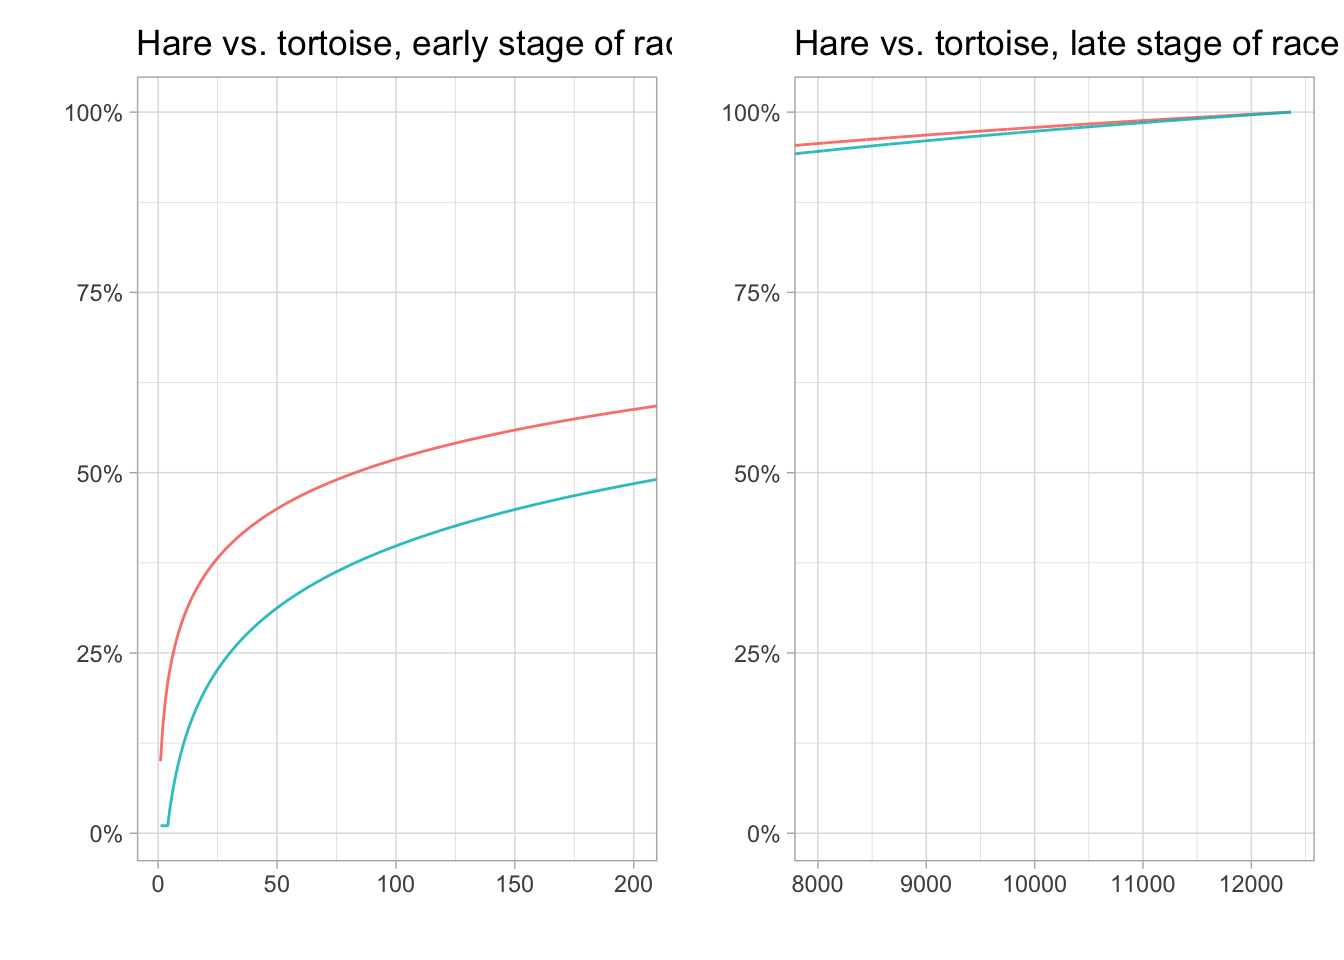
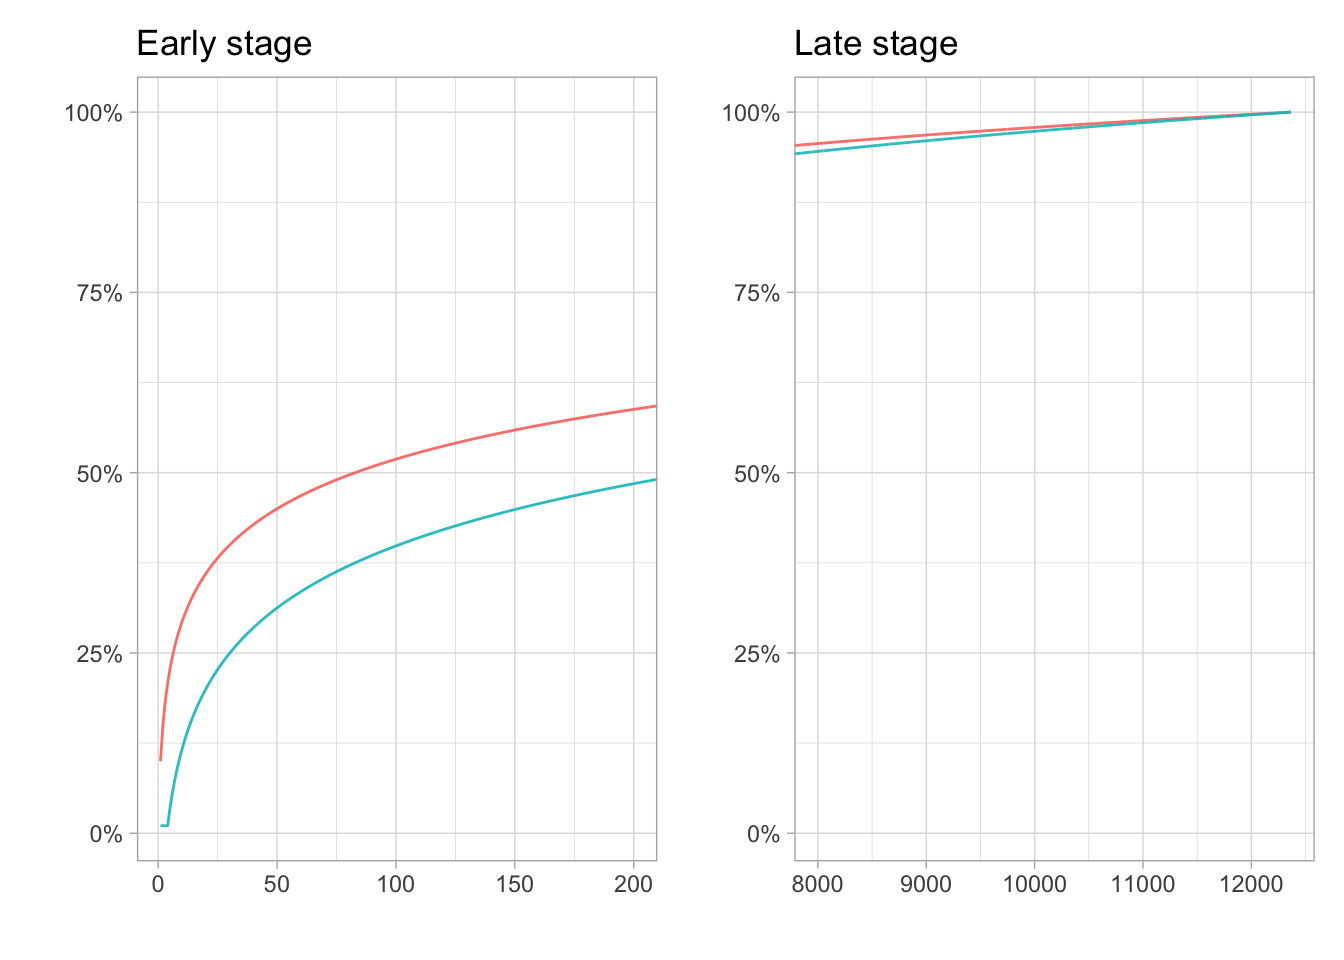
Additional draft of baseball

Changed region(s): [[0.5938, 0.0312, 1.0, 0.0625], [0.0938, 0.0312, 0.5, 0.0625]]

diff --git a/content/post/riddler/2020-07-17-baseball-asterisk.html b/content/post/riddler/2020-07-17-baseball-asterisk.html
@@ -1,0 +1,101 @@
+---
+title: Baseball asterisk
+author: ravic
+date: '2020-07-17'
+slug: baseball-asterisk
+categories: []
+tags:
+  - riddler
+---
+
+
+
+<!--more-->
+<div id="problem" class="section level3">
+<h3>Problem</h3>
+<blockquote>
+<p>From Taylor Firman comes an opportunity to make baseball history:  <br />
+This year, Major League Baseball announced it will play a shortened 60-game
+season, as opposed to the typical 162-game season. Baseball is a sport of
+numbers and statistics, and so Taylor wondered about the impact of the season’s
+length on some famous baseball records.<br />
+<br />
+Some statistics are more achievable than others in a shortened season. Suppose
+your true batting average is .350, meaning you have a 35 percent chance of
+getting a hit with every at-bat. If you have four at-bats per game, what are
+your chances of batting at least .400 over the course of the 60-game season? And
+how does this compare to your chances of batting at least .400 over the course
+of a 162-game season?</p>
+</blockquote>
+</div>
+<div id="answer" class="section level3">
+<h3>Answer</h3>
+<p>We can code up a quick look at the binomial distribution to see how likely we
+would be to get a sample as extreme as the .400 record.</p>
+<pre class="r"><code>seasons &lt;- c(60, 162)
+at_bats_per_game &lt;- 4
+
+df &lt;- tibble(seasons = c(60, 162)) %&gt;%
+  mutate(rarities = 1 - pbinom(.400 * seasons * at_bats_per_game, 
+                               size = seasons * at_bats_per_game, 
+                               prob = .350)) %&gt;%
+  mutate(rarities = formattable::percent(rarities, digits = 1))
+df</code></pre>
+<pre><code>## # A tibble: 2 x 2
+##   seasons rarities  
+##     &lt;dbl&gt; &lt;formttbl&gt;
+## 1      60 4.6%      
+## 2     162 0.4%</code></pre>
+<p>Let’s take a look at Ted Williams’s record:</p>
+<pre><code>##    nameFirst nameLast   H  AB batting_avg yearID   G ab_per_game
+## 1        Ted Williams 185 565       0.327   1939 149         3.8
+## 2        Ted Williams 193 561       0.344   1940 144         3.9
+## 3        Ted Williams 185 456       0.406   1941 143         3.2
+## 4        Ted Williams 186 522       0.356   1942 150         3.5
+## 5        Ted Williams 176 514       0.342   1946 150         3.4
+## 6        Ted Williams 181 528       0.343   1947 156         3.4
+## 7        Ted Williams 188 509       0.369   1948 137         3.7
+## 8        Ted Williams 194 566       0.343   1949 155         3.7
+## 9        Ted Williams 106 334       0.317   1950  89         3.8
+## 10       Ted Williams 169 531       0.318   1951 148         3.6
+## 11       Ted Williams   4  10       0.400   1952   6         1.7
+## 12       Ted Williams  37  91       0.407   1953  37         2.5
+## 13       Ted Williams 133 386       0.345   1954 117         3.3
+## 14       Ted Williams 114 320       0.356   1955  98         3.3
+## 15       Ted Williams 138 400       0.345   1956 136         2.9
+## 16       Ted Williams 163 420       0.388   1957 132         3.2
+## 17       Ted Williams 135 411       0.328   1958 129         3.2
+## 18       Ted Williams  69 272       0.254   1959 103         2.6
+## 19       Ted Williams  98 310       0.316   1960 113         2.7</code></pre>
+<p>We can also take a look at those who achieved a .400 batting average in the
+major leagues.</p>
+<pre><code>##       nameFirst  nameLast yearID   H  AB   G batting_avg ab_per_game p_value
+## 1          Ross    Barnes   1876 138 322  66       0.429         4.9  0.0015
+## 2          Fred    Dunlap   1884 185 449 101       0.412         4.4  0.0028
+## 3           Tip   O&#39;Neill   1887 225 517 124       0.435         4.2  0.0000
+## 4          Pete  Browning   1887 220 547 134       0.402         4.1  0.0049
+## 5          Hugh     Duffy   1894 237 539 125       0.440         4.3  0.0000
+## 6          Tuck    Turner   1894 145 347  82       0.418         4.2  0.0037
+## 7           Sam  Thompson   1894 187 451 102       0.415         4.4  0.0019
+## 8            Ed Delahanty   1894 200 494 116       0.405         4.3  0.0049
+## 9         Billy  Hamilton   1894 225 558 132       0.403         4.2  0.0040
+## 10        Jesse   Burkett   1895 225 555 132       0.405         4.2  0.0029
+## 11           Ed Delahanty   1895 194 480 116       0.404         4.1  0.0060
+## 12        Jesse   Burkett   1896 240 586 133       0.410         4.4  0.0012
+## 13       Hughie  Jennings   1896 209 521 130       0.401         4.0  0.0067
+## 14       Willie    Keeler   1897 239 564 129       0.424         4.4  0.0001
+## 15           Ed Delahanty   1899 238 581 146       0.410         4.0  0.0012
+## 16          Nap    Lajoie   1901 232 544 131       0.426         4.2  0.0001
+## 17           Ty      Cobb   1911 248 591 146       0.420         4.0  0.0002
+## 18 Shoeless Joe   Jackson   1911 233 571 147       0.408         3.9  0.0017
+## 19           Ty      Cobb   1912 226 553 140       0.409         4.0  0.0018
+## 20       George    Sisler   1920 257 631 154       0.407         4.1  0.0012
+## 21       George    Sisler   1922 246 586 142       0.420         4.1  0.0002
+## 22           Ty      Cobb   1922 211 526 137       0.401         3.8  0.0065
+## 23       Rogers   Hornsby   1922 250 623 154       0.401         4.0  0.0034
+## 24        Harry  Heilmann   1923 211 524 144       0.403         3.6  0.0054
+## 25       Rogers   Hornsby   1924 227 536 143       0.424         3.7  0.0002
+## 26       Rogers   Hornsby   1925 203 504 138       0.403         3.7  0.0061
+## 27         Bill     Terry   1930 254 633 154       0.401         4.1  0.0032
+## 28          Ted  Williams   1941 185 456 143       0.406         3.2  0.0059</code></pre>
+</div>

diff --git a/content/post/riddler/2020-07-18-surreal-hare-vs-tortoise.html b/content/post/riddler/2020-07-18-surreal-hare-vs-tortoise.html
@@ -170,6 +170,8 @@ start_duration &lt;- seconds_to_period(start_time * 60)
 formatted_start &lt;- glue(
   &quot;{start_duration@minute}&quot;, &quot;:&quot;, 
   &quot;{round(second(start_duration), 0)}&quot;)</code></pre>
+<p>So, in the fourth minute, the hare should run for 0.33
+of the minute.</p>
 </div>
 <div id="answer-revisited" class="section level3">
 <h3>Answer revisited</h3>
@@ -205,17 +207,16 @@ plt &lt;- df %&gt;%
 full_stage &lt;- plt + 
   labs(title = &quot;Full race&quot;, 
        y = &quot;&quot;, x = &quot;&quot;) 
-
-late_stage &lt;- plt +
-  labs(title = &quot;Hare vs. tortoise, late stage of race&quot;, 
-       y = &quot;&quot;, x = &quot;&quot;) +
-  coord_cartesian(xlim=c(8000, 12367))
-early_state &lt;- plt +
-  labs(title = &quot;Hare vs. tortoise, early stage of race&quot;, 
-       y = &quot;&quot;, x = &quot;&quot;) +
-  coord_cartesian(xlim=c(1, 200))
 full_stage </code></pre>
 <p><img src="/post/riddler/2020-07-18-surreal-hare-vs-tortoise_files/figure-html/watch-the-race-1.png" width="672" /></p>
-<pre class="r"><code>early_state | late_stage</code></pre>
+<pre class="r"><code>early_state &lt;- plt +
+  labs(title = &quot;Early stage&quot;, 
+       y = &quot;&quot;, x = &quot;&quot;) +
+  coord_cartesian(xlim=c(1, 200))
+late_stage &lt;- plt +
+  labs(title = &quot;Late stage&quot;, 
+       y = &quot;&quot;, x = &quot;&quot;) +
+  coord_cartesian(xlim=c(8000, 12367))
+early_state | late_stage</code></pre>
 <p><img src="/post/riddler/2020-07-18-surreal-hare-vs-tortoise_files/figure-html/watch-the-race-2.png" width="672" /></p>
 </div>
